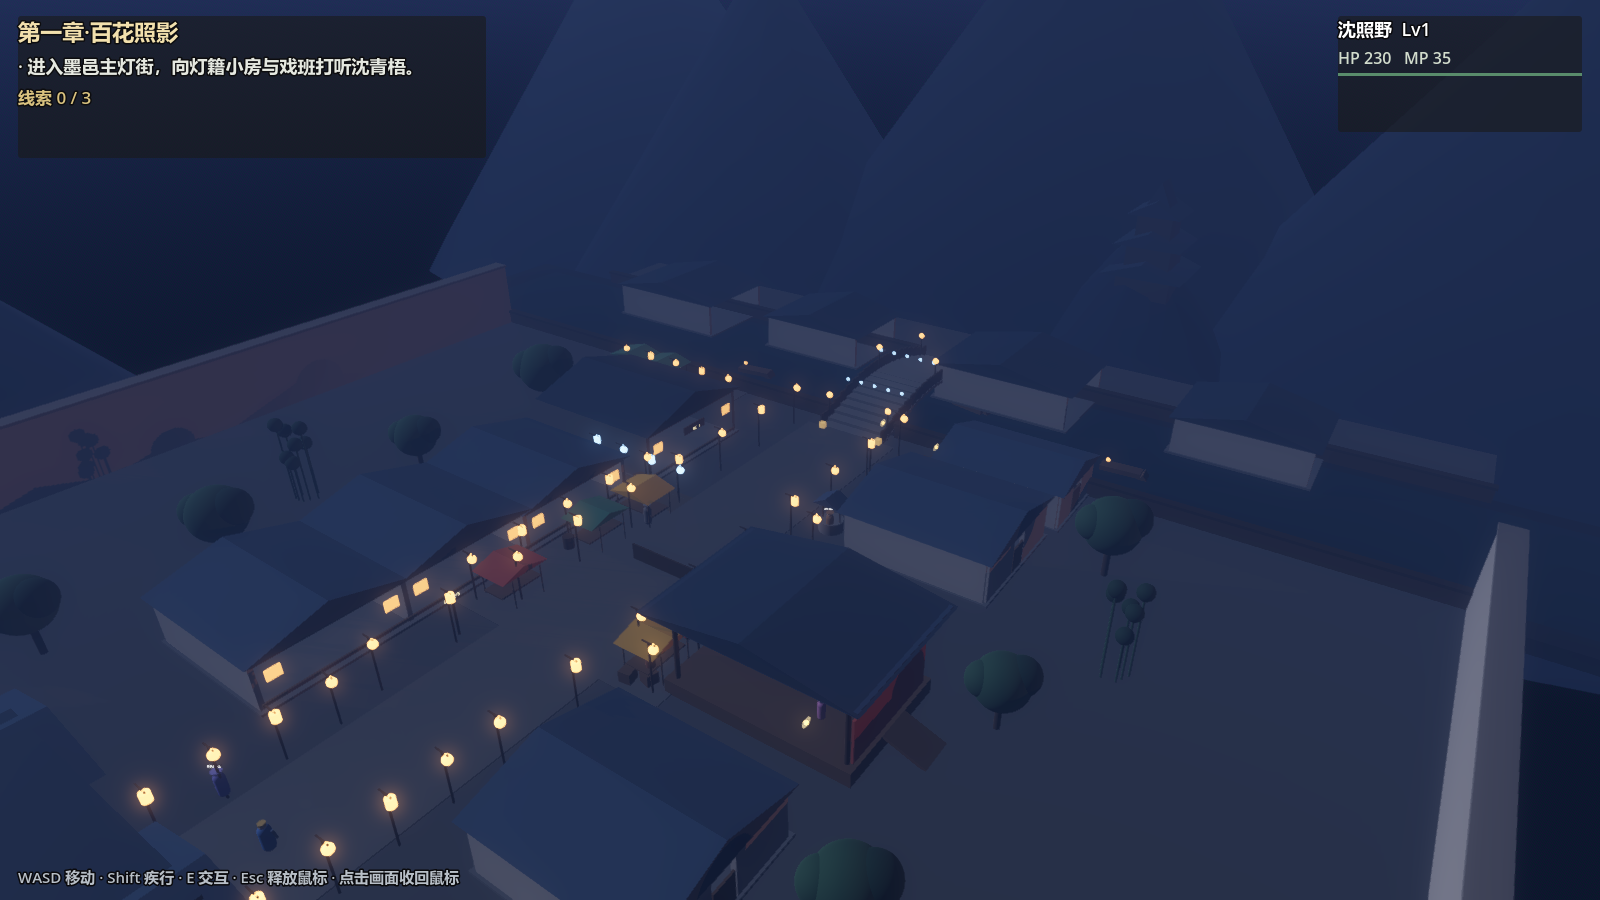
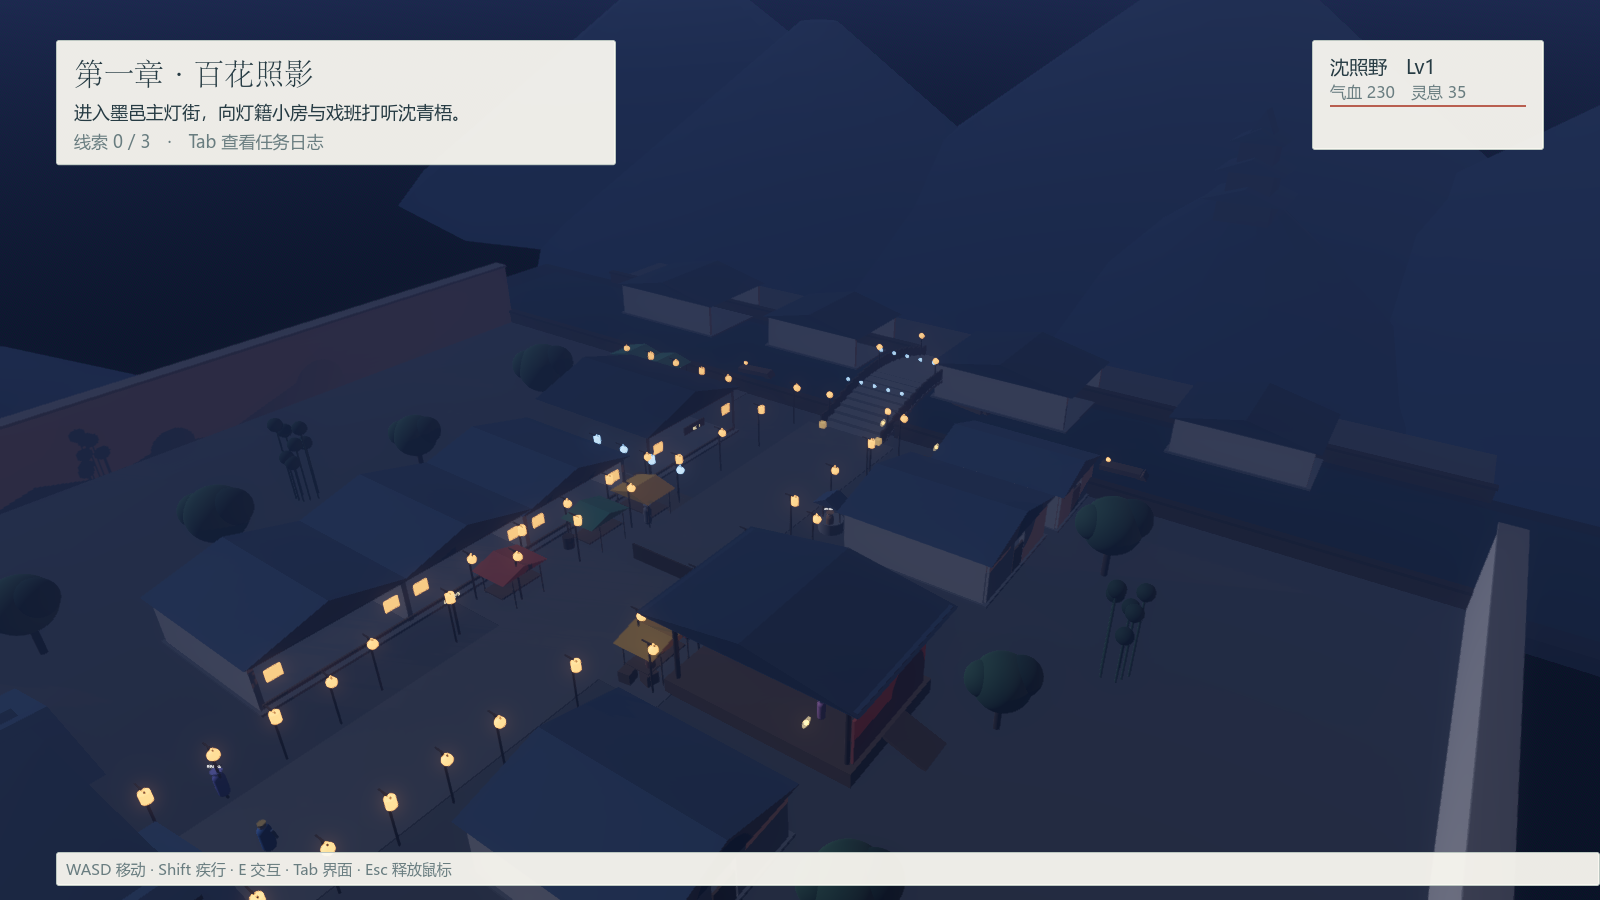
art: 夜景重新平衡（去灯笼过曝/恢复暗部）+ 桥面随拱线倾斜；并入外部美术资料包规范
- 灯笼与桥/戏台自发光下调，新增 LIGHT_ENERGY_SCALE=0.75 统一压灯光能量
- glow 0.60→0.45、bloom 0.28→0.20、环境光 0.42→0.50、曝光 1.10→1.05（暗部细节恢复）
- 桥面分段随拱线切角倾斜，消除台阶感
- 采纳外部美术资料包：assets/source|processed 分离、资源台账字段含 noai_flag、禁用 NC/ND/NoAI 红线、中式资产候选清单（Sketchfab CC-BY 7 项 + Kenney CC0 + Fab）
- 06 新增与外部诊断的逐条对照表；03 记录推送打通与夜景改动
- 验证：自检 24/24、冒烟 0 错误、三张场景截图重出

diff --git a/开发文档/资源台账.md b/开发文档/资源台账.md
@@ -6,12 +6,33 @@
 
 ## 登记表
 
-| 资产 | 类型 | 用途 | 来源 / 制作方法 | 授权 | 待确认事项 | 影响的游戏功能 | 状态 |
+> 字段口径来自项目美术资料包（`开发文档/美术/美术.md`）：
+> `asset_id, asset_name, source_url, creator, download_date, license, commercial_ok, attribution, noai_flag, format, modified, used_in_scene, notes`
+
+### 中式资产候选（**先审核授权页再下载**，来源：项目美术资料包）
+
+| asset_id | 资产 | 来源 / 链接 | 面数 | 许可 | noai | 用途 | 状态 |
 |---|---|---|---|---|---|---|---|
-| （示例）`T_Stone_Wall_Albedo/Normal/Rough` | 纹理 | 石墙材质 | ambientCG 下载 | CC0 | 无需署名 | 全部建筑立面 | 待采购 |
-| （示例）`PROP_Tree_A` | 模型 | 街边植被占位 | Quaternius | CC0 | 风格偏卡通，需替换 | 环境层次 | 占位 |
-| （示例）`ENV_Sky_Dusk.hdr` | HDRI | 黄昏环境光 | Poly Haven | CC0 | 文件较大，取 2K | 光照与天空 | 待采购 |
-| （示例）`SM_Building_A` | 模型 | 铺面建筑 | Blender 自建 | 原创 | 无 | 主街建筑 | 待制作 |
+| CAND_TEMPLE_MERVE | CHINESE TEMPLE（mervemacit） | sketchfab.com/3d-models/chinese-temple-0ffd9067916642779ae1c270d083d77f | ~14.2k | CC BY | 待核实 | 寺院/祠庙建筑参考或直接使用（需署名） | 待审核 |
+| CAND_LANTERN_B13 | Chinese Lantern（Batuhan13） | sketchfab.com/3d-models/chinese-lantern-0fc4dbf7122141828c16bae9025ce47c | ~1.4k | CC BY | 待核实 | 灯笼（全城复用，约 47 盏） | 待审核 |
+| CAND_LANTERN_SCRITTA | Old Chinese Lantern（Scritta，低模） | sketchfab.com/3d-models/old-chinese-lantern-lowpoly-for-free-download-73b1e60901e6494fb0cb39affca6f850 | 低模 | CC BY | 待核实 | 旧灯笼变体 | 待审核 |
+| CAND_STREET_PASHA | China Street（Pasha） | sketchfab.com/3d-models/china-street-d5e673e13b774deba137bd2e99af8e65 | ~12.8k | CC BY | 待核实 | 街巷模块参考 | 待审核 |
+| CAND_HOUSE_YB | Low Big House（YanaBelaya） | sketchfab.com/3d-models/low-big-house-low-roof-b5039dcf41f54800a6a8bb89f7183a8b | ~6.8k | CC BY | 待核实 | 铺面建筑候选 | 待审核 |
+| CAND_HOUSE_HS | Traditional Chinese House（Himanshu Solanki） | sketchfab.com/3d-models/traditional-chinese-house-low-poly-stylized-0f5fbcbf1489432a81e372e6d38699dd | ~236.9k | CC BY | 待核实 | 需减面/LOD 后才能用 | 待审核（面数超标） |
+| CAND_KENNEY_BUILDING | Kenney Building Kit | kenney-assets.itch.io/building-kit | 低模 | CC0 | 无 | 结构补充与原型（非中式主资产） | 可用 |
+| CAND_FAB_TEMPLE | Fab Chinese Temple | fab.com/listings/098f0a41-297c-485b-8f60-81d5f9b16bbc | 待查 | 需打开确认（可能收费） | 待核实 | 备选 | 待审核 |
+
+> 每项下载前必须：打开当前许可页 → 记录作者/URL/许可文本/下载日期 → 确认无 NC/ND/NoAI → 存入 `res://assets/source/`。
+
+### 工程内既有资产
+
+| 资产 | 类型 | 用途 | 来源 / 制作方法 | 授权 | 影响的游戏功能 | 状态 |
+|---|---|---|---|---|---|---|
+| `T_*` 木/石/瓦/布/铜/水 | 纹理 | 六类材质 | 待采购（ambientCG / Poly Haven / Material Maker） | CC0 / 自产 | 全部建筑立面与街面 | 待采购 |
+| `SM_Building_*` / `SM_Roof_*` / `SM_Bridge_*` 等 | 模型 | 建筑与桥模块 | Blender 自建 | 原创 | 城镇结构 | 待制作 |
+| `PROP_Lantern_*` / `PROP_Stall_*` / `PROP_Tree` 等 | 模型 | 道具与植被 | Blender 自建或 CC0 候选 | 原创 / CC0 | 街道密度与层次 | 待制作 |
+| `ENV_Moyi_Town`（黄昏·蓝调·天明三档） | 环境 | 世界环境 | 工程自建（`data/map_moyi.json`） | 原创 | 光照与氛围 | 已入库 |
+| `yunque/shots/moyi_*.png`、`ui_*.png` | 截图 | 视觉验收证据 | 实机截图（Godot「--screenshot」） | 原创 | 无（不进构建） | 已入库 |
 
 ## 状态口径
 

diff --git a/开发文档/05_美术标准_ArtBible.md b/开发文档/05_美术标准_ArtBible.md
@@ -183,6 +183,8 @@ LOD 策略：`LOD0`（近，带法线）→ `LOD1`（中，去法线、减半面
 
 ```
 res://assets/
+├── source/         原始下载档（**只读，不覆盖**；保留 .blend 与原始 FBX/OBJ）
+├── processed/      已处理可用档（.glb，导入 Godot 的唯一来源）
 ├── architecture/   SM_Building_A.glb, SM_Roof_Gable.glb …
 ├── props/          PROP_Tree.glb, PROP_Lantern_Round.glb …
 ├── materials/      M_Wood_Old.tres, M_Stone_Wall.tres …（共享材质，不嵌在模型里）
@@ -190,6 +192,8 @@ res://assets/
 ├── environment/    ENV_Sky_Dusk.tres, ENV_Moyi_Town.tres
 └── reference/      概念参考图（**不参与构建**，仅存档）
 ```
+
+> **原始档与处理档分离**（来自项目美术资料包 `开发文档/美术/美术.md` 的管线约定）：外部下载物一律先进 `source/`，在 Blender 里检查比例/原点/朝向/UV/法线/面数后，导出 `.glb` 到 `processed/` 再导入 Godot。**`processed/` 是唯一被场景引用的目录**，回滚或替换资产时不会污染原始档。
 
 命名规则：`SM_` 结构模块 / `PROP_` 道具 / `M_` 材质 / `T_` 纹理 / `ENV_` 环境；中文名只出现在文档里，资源名一律 ASCII 拼音或英文，避免跨工具编码问题。
 
@@ -241,11 +245,16 @@ res://assets/
 | Poly Haven | HDRI、PBR 纹理、少量模型 | CC0 | 天空/环境光照、木石瓦纹理 |
 | ambientCG | PBR 纹理 | CC0 | 石材、木、布、金属 |
 | Quaternius | 低模建筑/道具/角色 | CC0 | 远景剪影、临时占位 |
-| Kenney | 道具、UI 图标 | CC0 | 通用道具（风格偏卡通，仅作临时占位） |
-| OpenGameArt | 混合 | CC0 / CC-BY / GPL，**逐个确认** | 个别道具与音效 |
-| Sketchfab（CC0 筛选） | 模型 | 逐个确认 | 个别道具；务必核对作者与授权 |
+| Kenney（Building Kit） | 80+ 墙/地板/门窗模块 | CC0 | 结构补充与原型；风格偏通用，**不作中式主资产** |
+| Fab | 中式寺庙/村落/模块化/古市集摊位（关键词 `Chinese temple` / `Asian village` / `modular building` / `ancient market stall`） | 逐项核实 | 结构化资产候选 |
+| Sketchfab（CC0/CC-BY 筛选） | 见 `资源台账.md` 候选表 | 逐项核实（注意 **NC / ND / NoAI** 标记） | 中式建筑与灯笼候选，**先审核再下载** |
+| itch.io `tag-3d`+`tag-chinese` | 混合 | 逐项核实（该标签下大量是 2D/像素风） | 个别道具 |
 | Material Maker（免费开源） | 程序化纹理 | 自产 | 生成 tileable 木/石/瓦纹理 |
 | Blender | 全部自建件 | 自产 | 建筑模块、道具、桥、戏台 |
+
+**工具链**：Godot 4.7.2 / Blender（检查·拆分·减面·材质·GLB 导出）/ Krita·GIMP（贴图绘制）/ Mixamo（后续角色动画）/ **Meshy**（AI 生成模型，免费计划产物按 CC BY 4.0 需署名——生成当日必须重新核对当时条款）。
+
+**红线**：不得使用 **NC（非商业）/ ND（禁改）/ 许可不明 / 标为 NoAI** 的资产；**标 NoAI 的模型不得作为生成式 AI 的输入**。每项资产登记：`asset_id, asset_name, source_url, creator, download_date, license, commercial_ok, attribution, noai_flag, format, modified, used_in_scene, notes`（见 `资源台账.md`）。
 
 **每项资产必须登记**：用途 / 来源或制作方法 / 授权待确认项 / 影响的游戏功能。台账模板见 `开发文档/资源台账.md`。
 

diff --git a/开发文档/06_墨邑古城_美术实施方案.md b/开发文档/06_墨邑古城_美术实施方案.md
@@ -189,7 +189,24 @@
 
 ---
 
-## 本批建议顺序（一次只推进一步）
+## 附：与项目美术资料包诊断的对照
+
+项目侧另有一份美术资料包（`开发文档/美术/美术.md` + `美术.pdf`，由项目其他会话产出）。其「当前画面诊断」与本方案一致，**逐条对照以避免两份文档给出不同优先级**：
+
+| 资料包诊断（按优先级） | 本方案对应 | 状态 |
+|---|---|---|
+| ① 建筑是简单几何体，缺屋顶曲线/屋脊/瓦片/檐口/木柱/门窗/格栅/台基；不要继续堆 Cube | §D1 建筑模块三件套 + §B4 立面细节 | 未开始（排在第 2 批） |
+| ② 镜头/构图：石桥前景占比过大，玩家与路径不突出 | §B1 千灯桥机位（桥北端、桥体居中偏下）；`--shot-view=town\|bridge\|player` 三机位做验收 | 部分达成，可截图复核 |
+| ③ 材质缺木/瓦/石/布/植被区分 | `05_美术标准` §4 六类材质 PBR 参数 | 未开始（待采购纹理） |
+| ④ 夜景灯笼过曝、暗部丢细节 | **本轮已修**：灯笼自发光 2.5→1.7、桥/戏台 2.6→1.9、全局灯光能量 ×0.75、glow 0.60→0.45、bloom 0.28→0.20、环境光 0.42→0.50、曝光 1.10→1.05 | ✅ 已达成 |
+| ⑤ 街道缺摊位/招牌/布幔/货物/盆栽/桥栏细节与有限人群 | §D2 道具清单 | 部分（已有 7 处摊位、招牌、灯笼串、桥栏；待补盆栽/布幔/货物/人群变化） |
+
+**同时采纳该资料包的两条工程约定**：
+
+1. 资产目录分离：`res://assets/source/`（原始档，只读不覆盖）与 `res://assets/processed/`（唯一被场景引用的可用档）。
+2. 资源台账字段扩充：含 `noai_flag` / `commercial_ok` / `attribution`，并明确禁用 **NC / ND / 许可不明 / NoAI** 资产。
+
+**一处口径确认**：该资料包把当前场景描述为「百花照影夜间古镇」，与蓝调时刻方案一致——本方案维持蓝调，不回退到暖橙黄昏（`dusk` 仅作序章落灯观备用）。
 
 1. **B1 千灯桥资产包**（桥拱 + 桥面 + 栏板 + 灯柱）：全图视觉中心，收益最高，且独立于建筑模块。
 2. **D1 建筑模块三件套**（墙 + 屋顶 + 门/窗）→ 先替换主街两侧铺面，验证模块化拼接。

diff --git a/开发文档/03_开发日志.md b/开发文档/03_开发日志.md
@@ -130,3 +130,30 @@
 - 推送：`git push https://x-access-token:<TOKEN>@github.com/zhihu-baihe/zhihu.git main:main`
 
 推送结果：远端 `main = 62fea90`（与本地一致），7 个提交、292 个文件，含完整设计资料包。过程中为测权限临时用 API 创建的 `_probe.txt` 已随 history 替换清除。
+
+---
+
+## 2026-10-15（第四次追加）— 推送打通 + 按外部美术诊断修夜景
+
+### 推送（已解决）
+
+见上一节排查链。最终固定用法：`http.proxy=socks5h://127.0.0.1:10808` + `http.postBuffer=5242880`（小值强制分块传输，绕开代理对整包上传的重置）。远端 8 个提交全部同步。
+
+### 外部资料
+
+发现项目侧另一会话产出的美术资料包（`开发文档/美术/美术.md` + `美术.pdf`，创建于 15:41/15:46，**非本会话产出**），随 `git add -A` 一并入库。已通读并对照，采纳其中：中式资产候选清单（Sketchfab CC-BY 7 项 + Kenney CC0 + Fab）、`assets/source` 与 `assets/processed` 分离、资源台账字段（含 `noai_flag`）、以及「禁用 NC/ND/NoAI」红线。对照表见 `06_墨邑古城_美术实施方案.md` 末节。
+
+### 本轮改动（夜景过曝）
+
+| 项 | 前 | 后 |
+|---|---|---|
+| 灯笼自发光 | 2.5 | 1.7 |
+| 桥/戏台灯自发光 | 2.6 | 1.9 |
+| 全场景灯光能量 | ×1.0 | **×0.75**（新增 `LIGHT_ENERGY_SCALE`） |
+| Glow 强度 / Bloom | 0.60 / 0.28 | 0.45 / 0.20 |
+| 环境光 / 曝光 | 0.42 / 1.10 | **0.50** / 1.05 |
+| 桥面拱线 | 分段盒体平铺（呈台阶感） | 分段随拱线切角倾斜，形成连续坡面 |
+
+### 验证
+
+自检 24/24、冒烟 0 错误；三张场景截图重出（灯笼不再过曝、建筑暗部恢复可读、桥面连续）。
